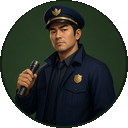
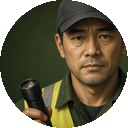
Replace inspector portrait with insignia-free reflective-vest version
- public/game/inspector.png: new AI-generated portrait (dark cap, olive work
  jacket, neon-yellow reflective vest, flashlight). Same 128x128 RGBA format and
  circular alpha mask as before; no police-style badge or shoulder patches.
- OG share images (EN/ZH): inspector portrait swapped inside the existing ring.
- Alt text and character bio (EN/ZH), game legend alt and OG alt now describe
  the reflective vest instead of a uniform.

diff --git a/lib/pages/characters.ts b/lib/pages/characters.ts
@@ -42,7 +42,7 @@ export const charactersEn: ArticleContent = {
       images: [
         {
           src: "/game/inspector.png",
-          alt: "Captain Zhang, the fictional park Inspector: a stern patroller in a dark cap and jacket holding a flashlight",
+          alt: "Captain Zhang, the fictional park Inspector: a stern patroller in a dark cap, olive work jacket and neon-yellow reflective vest, holding a flashlight",
           width: 128,
           height: 128,
           caption: "Captain Zhang, head of the fictional park patrol",
@@ -51,7 +51,7 @@ export const charactersEn: ArticleContent = {
       subsections: [
         {
           title: "Bio",
-          body: "Head patroller of a fictional park office. The whistle is louder than he is, and his cartoon uniform has no real insignia, badge, or agency name.",
+          body: "Head patroller of a fictional park office. The whistle is louder than he is, and his plain cap and reflective vest carry no insignia, badge, or agency name.",
         },
         {
           title: "Abilities",
@@ -156,7 +156,7 @@ export const charactersZh: ArticleContent = {
       images: [
         {
           src: "/game/inspector.png",
-          alt: "巡查队长老张头像：戴深色帽子、手拿手电筒、表情严肃的虚构公园巡查员",
+          alt: "巡查队长老张头像：戴深色帽子、穿橄榄色工装外套和荧光黄反光背心、手拿手电筒、表情严肃的虚构公园巡查员",
           width: 128,
           height: 128,
           caption: "巡查队长老张（虚构公园巡逻队）",
@@ -165,7 +165,7 @@ export const charactersZh: ArticleContent = {
       subsections: [
         {
           title: "人设",
-          body: "虚构公园管理处的巡查队长。哨子比嗓门大，穿卡通制服，没有任何真实标识、徽章或机构名。",
+          body: "虚构公园管理处的巡查队长。哨子比嗓门大，一顶普通帽子加一件荧光反光背心，没有任何标识、徽章或机构名。",
         },
         {
           title: "能力",

diff --git a/components/SecondEscapeGame.tsx b/components/SecondEscapeGame.tsx
@@ -48,7 +48,7 @@ const copy = {
     legendYou: "You — the angler",
     legendCop: "Inspector — avoid the light",
     altYou: "Cartoon angler in a bucket hat holding a fishing rod (the player)",
-    altCop: "Fictional park Inspector holding a flashlight (avoid his light)",
+    altCop: "Fictional park inspector in a reflective vest holding a flashlight (avoid his light)",
   },
   zh: {
     title: "二次逃脱",
@@ -75,7 +75,7 @@ const copy = {
     legendYou: "你 — 钓鱼佬",
     legendCop: "巡查 — 躲开探照灯",
     altYou: "戴渔夫帽、扛着鱼竿的卡通钓鱼佬（玩家角色）",
-    altCop: "拿手电筒的虚构公园巡查员（躲开他的光）",
+    altCop: "穿反光背心、拿手电筒的虚构公园巡查员（躲开他的光）",
   },
 } as const;
 

diff --git a/lib/seo.ts b/lib/seo.ts
@@ -12,11 +12,11 @@ export const SITE_NAME = { en: "Angler Escape", zh: "钓鱼佬大逃亡" } as co
 export const OG_IMAGE = {
   en: {
     url: "/og/angler-escape-en.png",
-    alt: "Angler Escape – free stealth fishing game: a cartoon angler and the Inspector",
+    alt: "Angler Escape – free stealth fishing game: a cartoon angler and the Inspector in a reflective vest",
   },
   zh: {
     url: "/og/angler-escape-zh.png",
-    alt: "钓鱼佬大逃亡——被抓了还能跑的钓鱼佬小游戏：钓鱼佬与巡查员",
+    alt: "钓鱼佬大逃亡——被抓了还能跑的钓鱼佬小游戏：钓鱼佬与穿反光背心的巡查员",
   },
 } as const;
 
